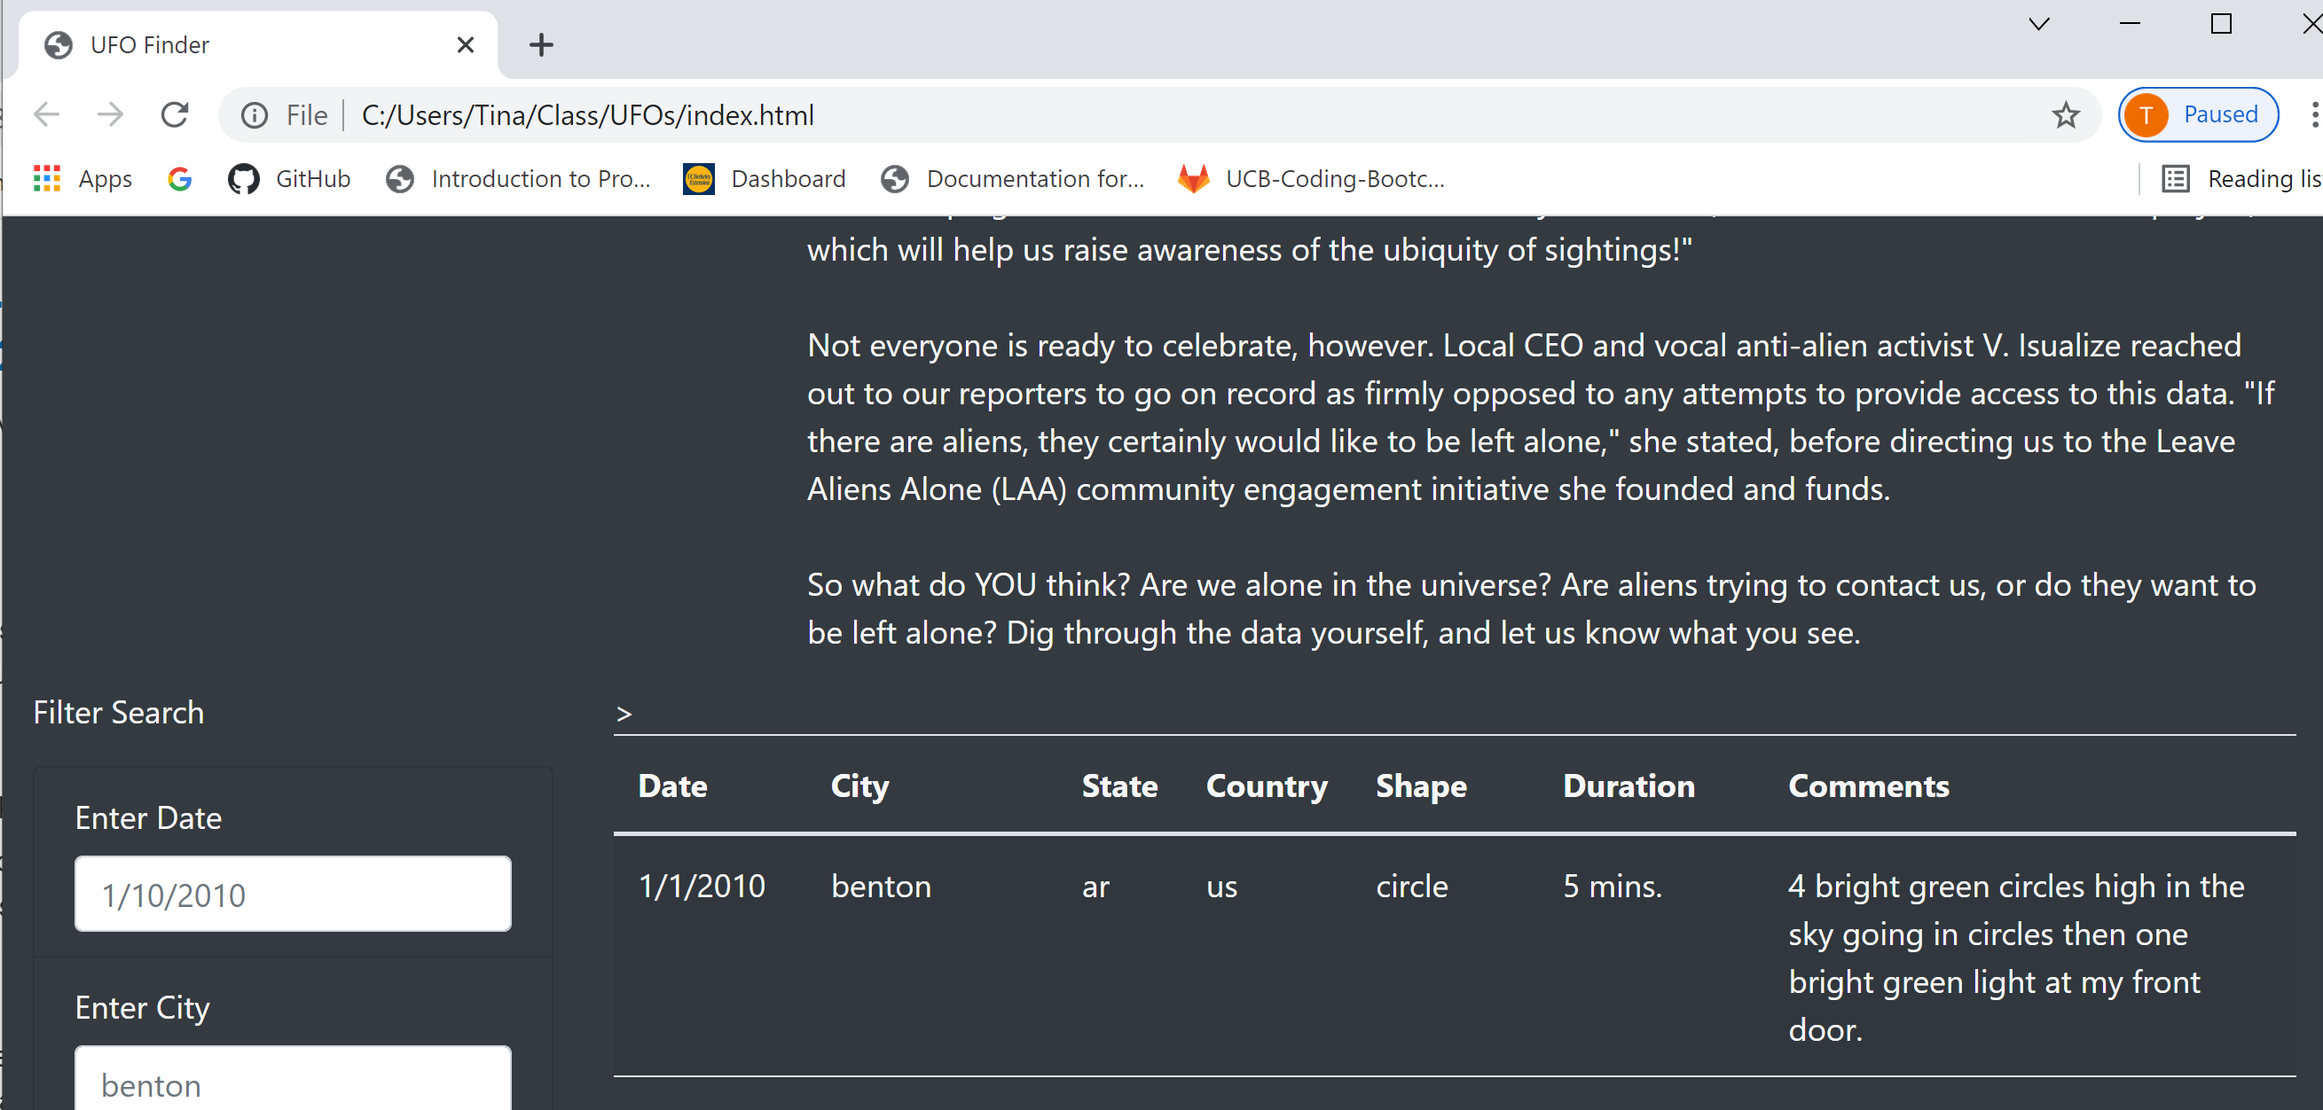
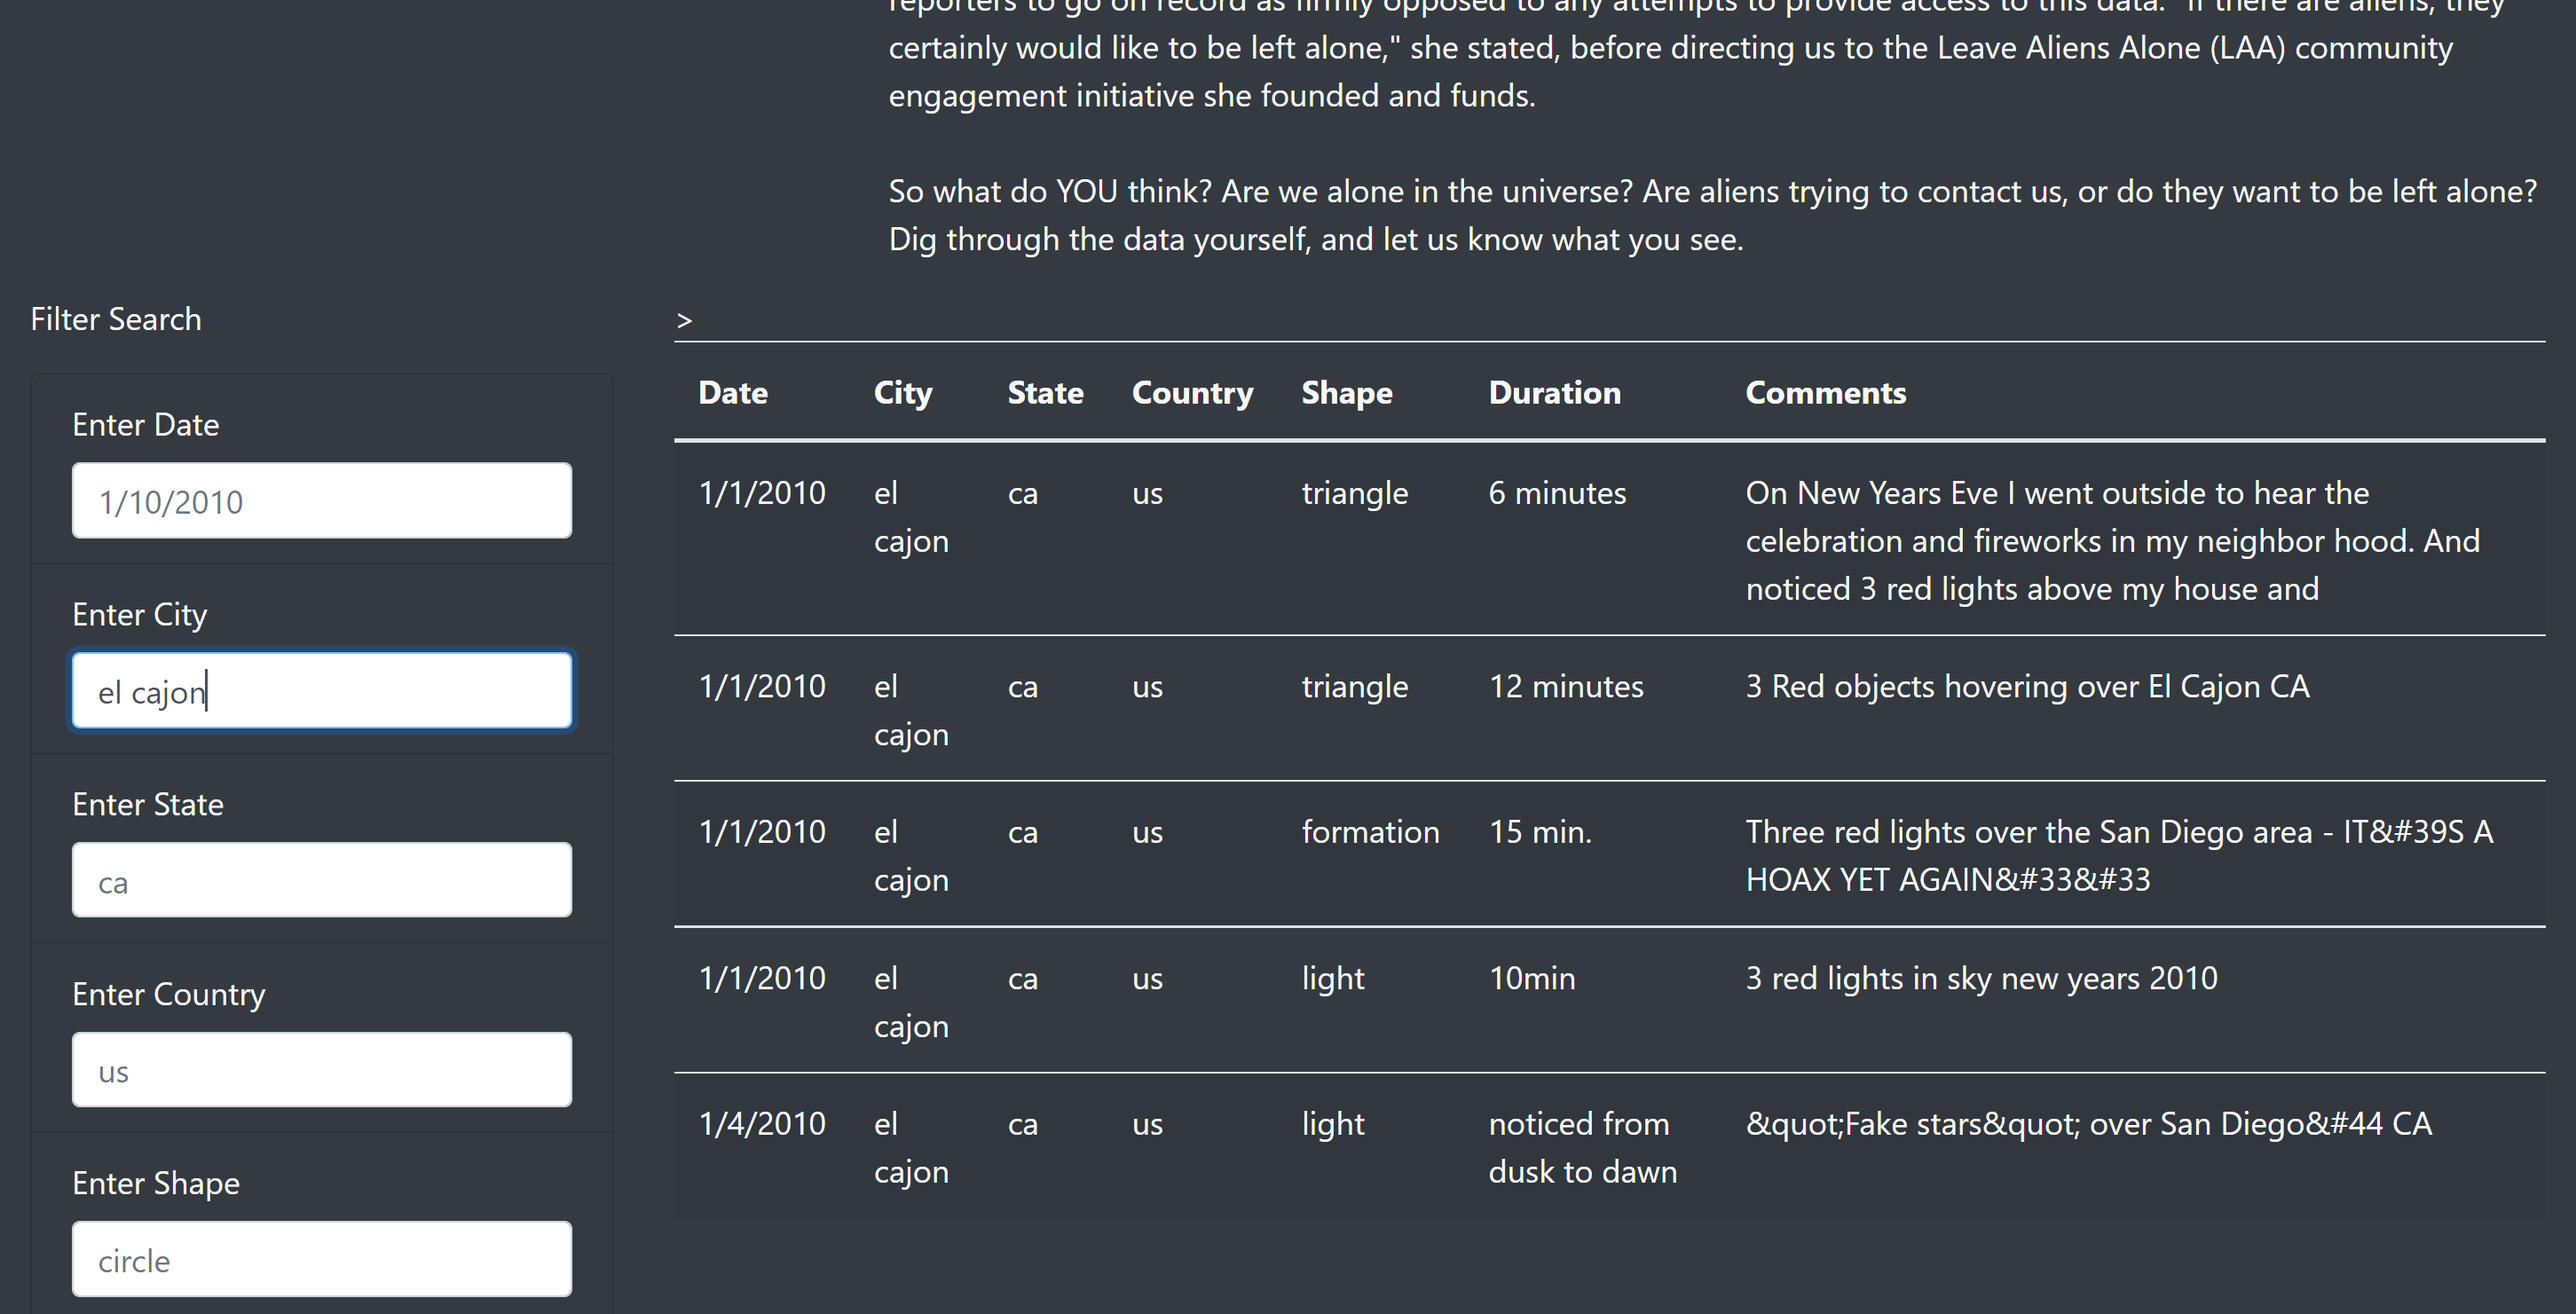
Challenge Resubmission on 11/28/21

diff --git a/static/js/app.js b/static/js/app.js
@@ -65,9 +65,10 @@ function updateFilters() {
     // 9. Loop through all of the filters and keep any data that
     // matches the filter values
     
-    Object.entries(filters).forEach(({key, value}) => {
-      filteredData = filteredData.filter(row => row[key] === value);      
-    });
+    Object.keys(filters).forEach((key,value) => {
+      filteredData = filteredData.filter(row => 
+        row[key] === filters[key]); 
+    })
     console.log("Following are filtered: ${filters}")
     // 10. Finally, rebuild the table using the filtered data
     buildTable(filteredData);

diff --git a/README.md b/README.md
@@ -11,44 +11,36 @@ It is now possible to use the new webpage to filter on multiple criteria.
 
 As illustrated below we can use the date to filter the results and see the sightings for a specific date. The snapshot below shows the results sorted by date (1/1/2010).
 
-Student Note: Seeing some issues with the filtering. Will resubmit after debugging further.
 
 ![](Resources/Filter-by-Date.PNG)
 
 ### Filter by City
 
-As illustrated below we can use the date to filter the results and see the sightings for a specific City. The snapshot below shows the results filtered by a specific city (Benton).
+As illustrated below we can use the date to filter the results and see the sightings for a specific City. The snapshot below shows the results filtered by a specific city.
 
 ![](Resources/Filter-by-City.PNG)
 
-Student Note: Seeing some issues with the filtering. Will resubmit after debugging further.
 
 ### Filter by State
 
-As illustrated below we can use the date to filter the results and see the sightings for a specific State. The snapshot below shows the results filtered by a specific State (ca).
+As illustrated below we can use the date to filter the results and see the sightings for a specific State. The snapshot below shows the results filtered by a specific State.
 
 ![](Resources/Filter-by-State.PNG)
-
-Student Note: Seeing some issues with the filtering. Will resubmit after debugging further.
 
 
 ### Filter by Country
 
-As illustrated below we can use the date to filter the results and see the sightings for a specific country. The snapshot below shows the results filtered by a specific country (us)
+As illustrated below we can use the date to filter the results and see the sightings for a specific country. The snapshot below shows the results filtered by a specific country.
 
 ![](Resources/Filter-by-Country.PNG)
-
-Student Note: Seeing some issues with the filtering. Will resubmit after debugging further.
-
 
 
 ### Filter by Shape
 
-As illustrated below we can use the date to filter the results and see the sightings for a specific country. The snapshot below shows the results filtered by a specific shape (circle)
+As illustrated below we can use the date to filter the results and see the sightings for a specific country. The snapshot below shows the results filtered by a specific shape.
 
 ![](Resources/Filter-by-Shape.PNG)
 
-Student Note: Seeing some issues with the filtering. Will resubmit after debugging further.
 
 ## Summary
 
